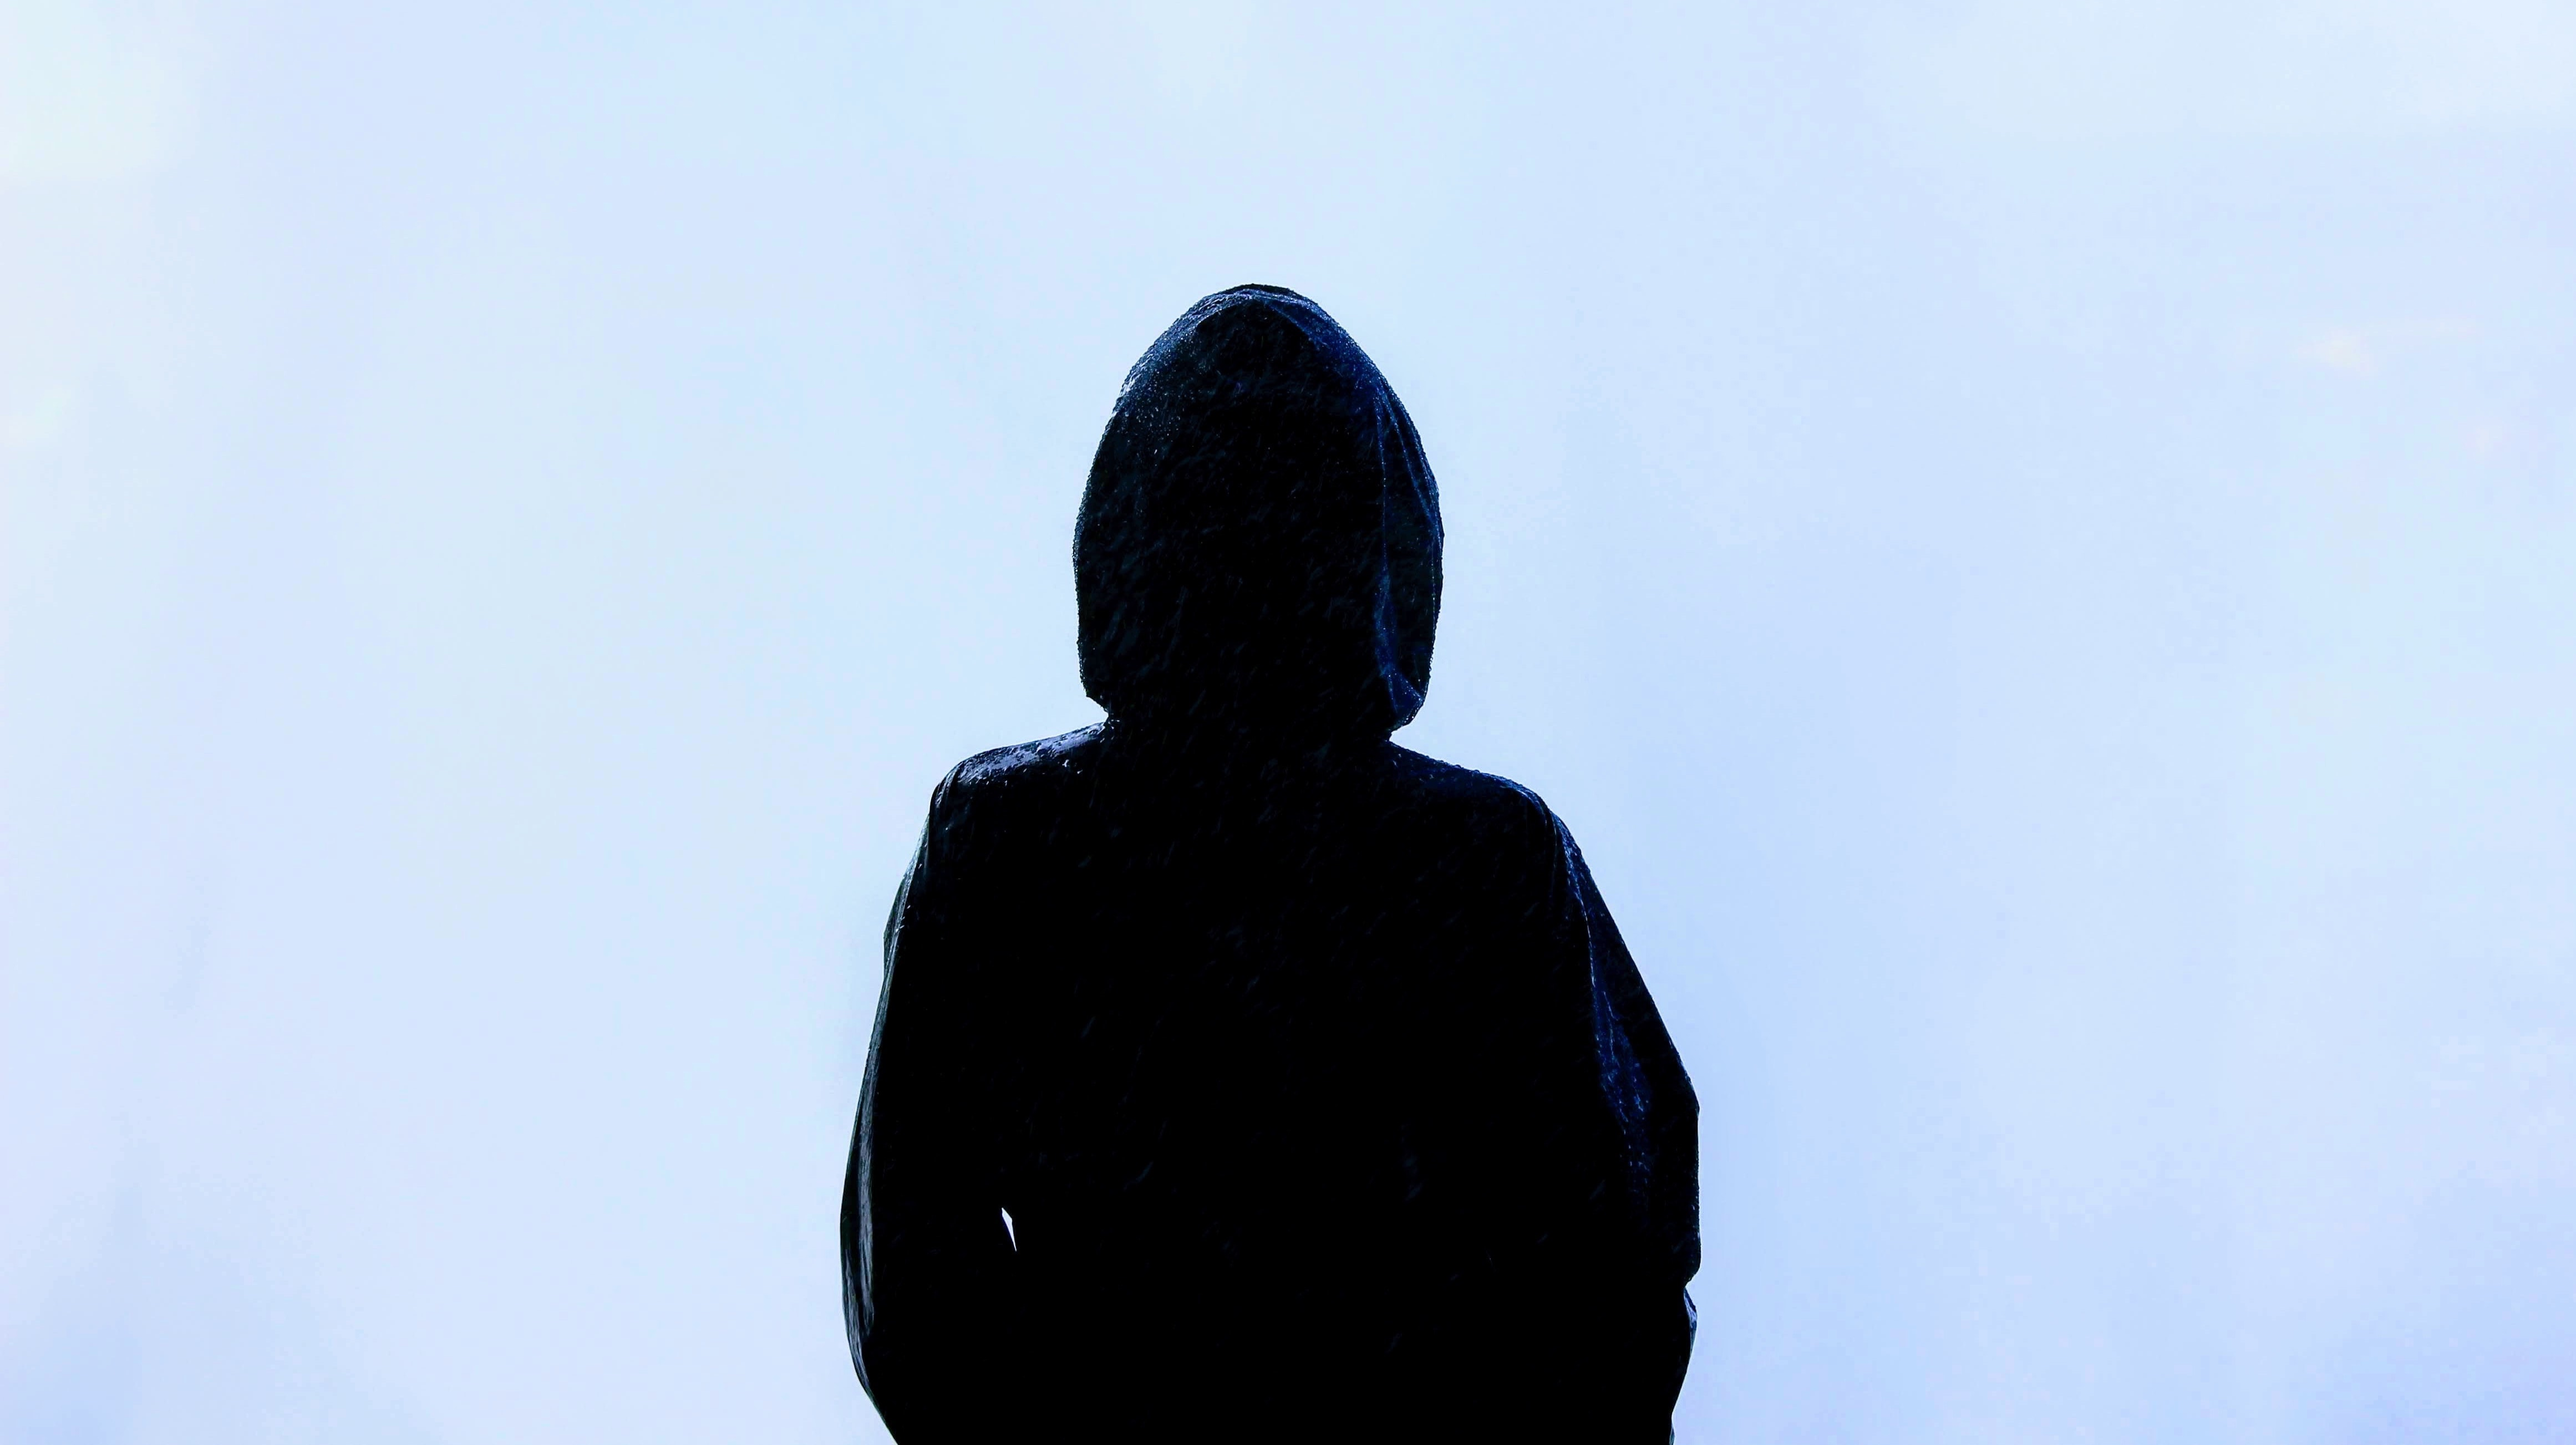
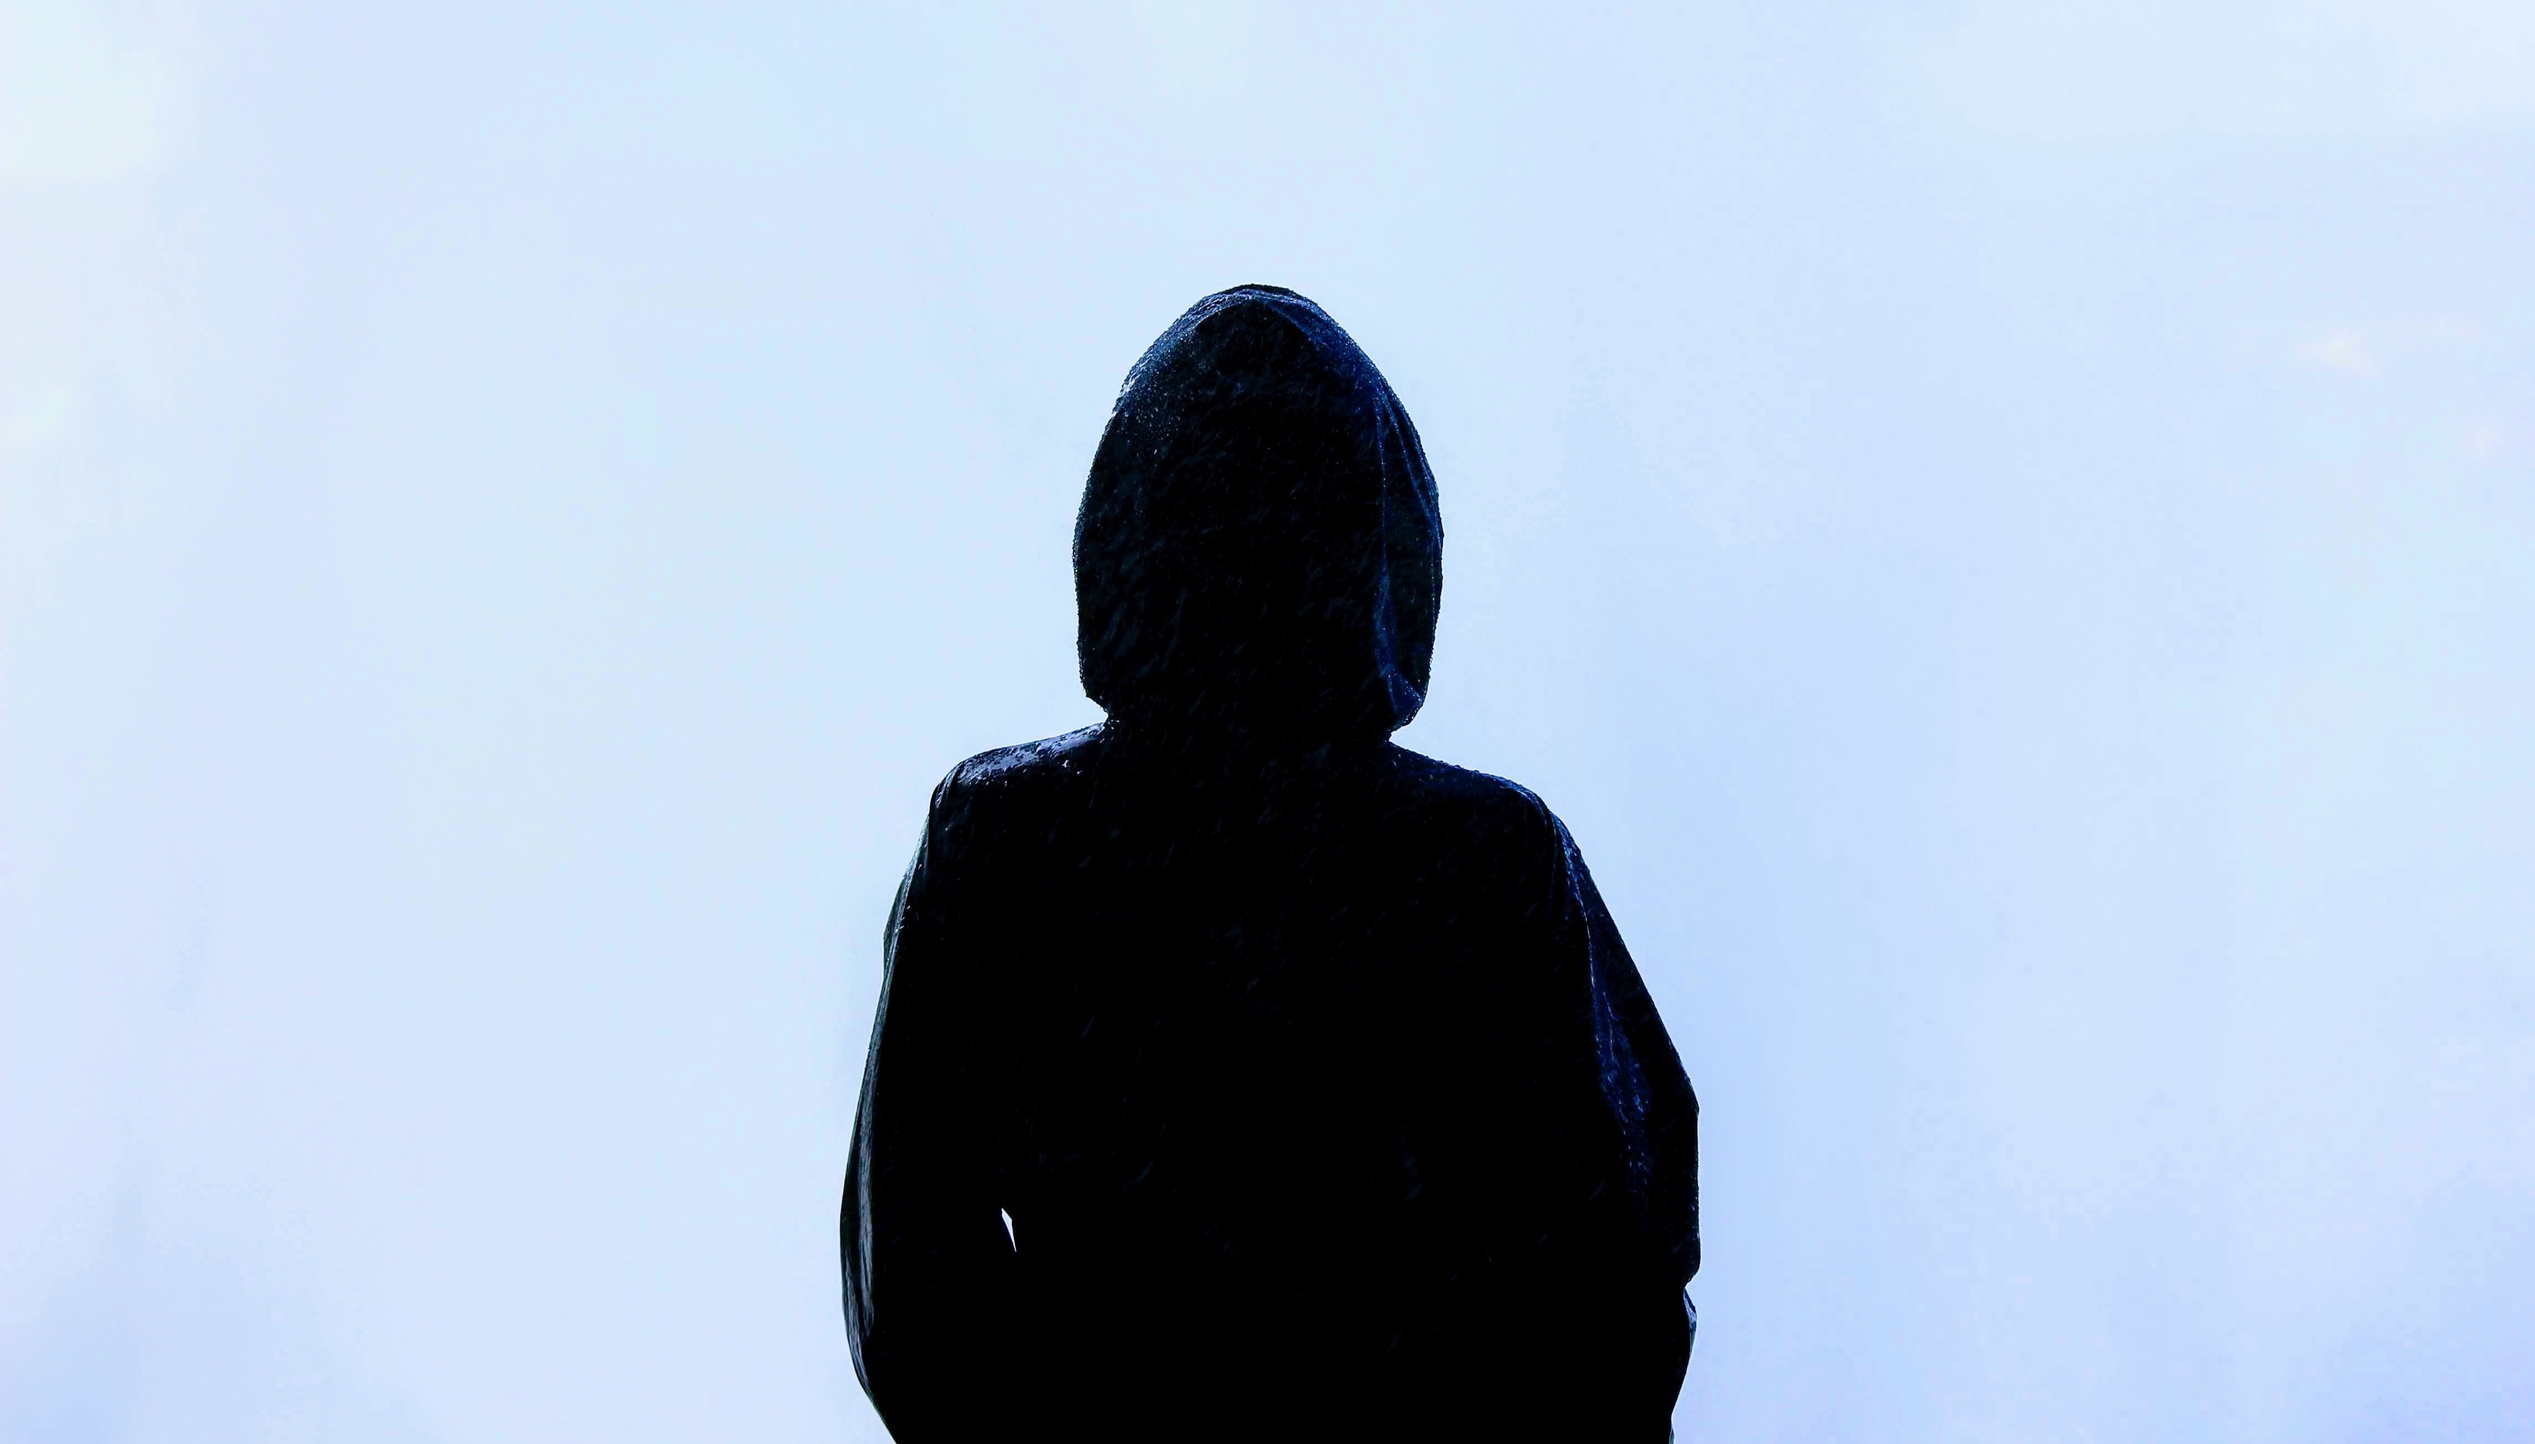
profile for mainview

diff --git a/src/components/ViewContainer/ProfileImg.tsx b/src/components/ViewContainer/ProfileImg.tsx
@@ -6,7 +6,10 @@ interface Props {
 }
 
 function ProfileImg(props: Props) {
-  return <img style={profile} src={props.profile.profileImg} alt={props.profile.alt} />;
+  return <div>
+    <img style={profile} src={props.profile.profileImg} alt={props.profile.alt} />
+    <div style={text}> {props.profile.profileText} </div>
+</div>;
 }
 
 export default ProfileImg;
@@ -18,7 +21,23 @@ const profile: CSSProperties = {
     borderRadius: '50%',
     left: '50%',
     top: '15rem',
-    transform: 'translate(-50%, -50%)'
+    transform: 'translate(-50%, -50%)',
+    backgroundColor: 'black',
+    border: '.05rem solid grey'
+}
+
+
+const text: CSSProperties = {
+  width: '20%',
+  position: 'absolute',
+  borderRadius: '50%',
+  left: '50%',
+  top: '15rem',
+  transform: 'translate(-50%, -50%)',
+  textAlign: 'center',
+  color: 'white',
+  fontWeight: 'bold',
+  
 }
 
 

diff --git a/src/components/ViewContainer/ProfileData.ts b/src/components/ViewContainer/ProfileData.ts
@@ -6,6 +6,7 @@ interface Todo  {
 export interface ProfileData  {
     id: string
     profileImg?: string
+    profileText?: string
     headerImg?: string
     backgroundImg?: string
     alt: string
@@ -17,8 +18,9 @@ export interface ProfileData  {
 const profileData: ProfileData[] = [
     {
         id: 'mainView',
-        profileImg: require('../../img/Leonardo-Dicaprio.jpg'),
-        headerImg: require('../../img/UnknownBG.jpg'),
+        profileImg: require('../../img/black.jpg'),
+        profileText: 'R U CHORE?',
+        headerImg: require('../../img/unknownBG.jpg'),
         alt: 'Unknown person',
         titel: 'Svara på frågorna nedan',
         initialTodos: []
